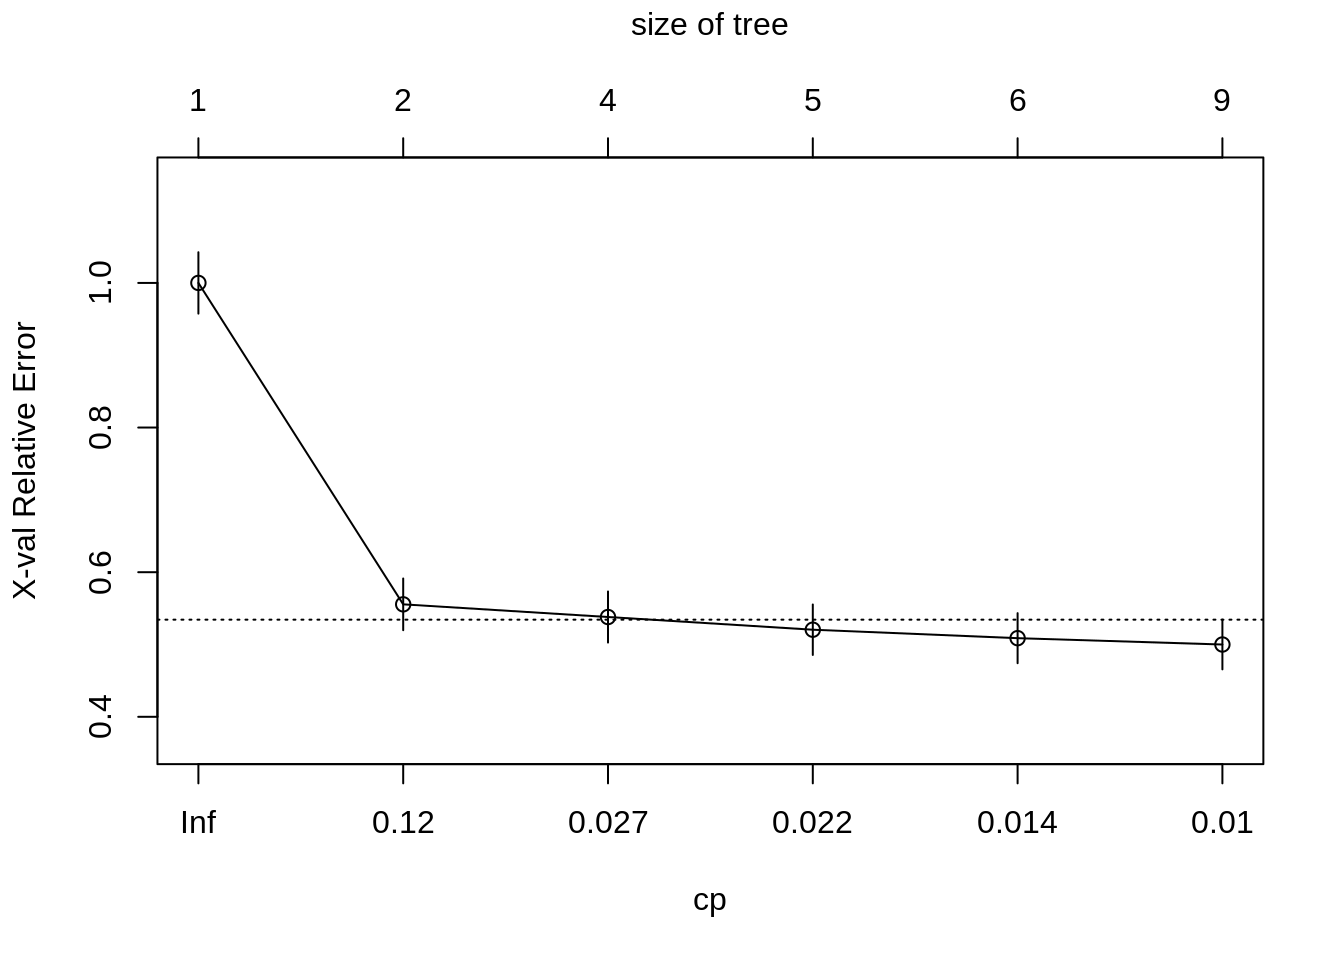
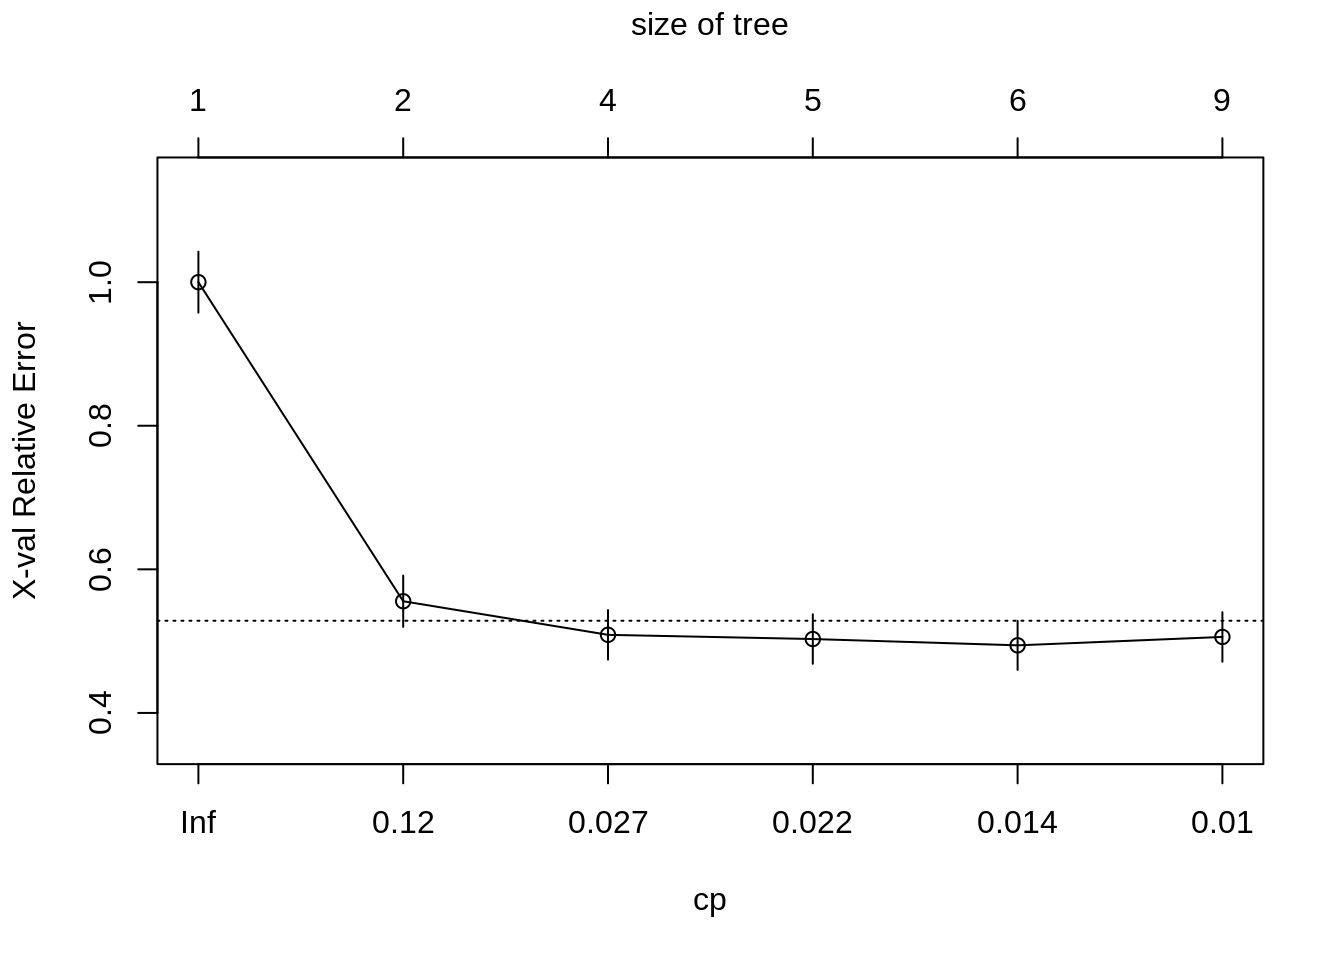
Deploy lebebr01/stat_thinking to github.com/lebebr01/stat_thinking.git:master

diff --git a/docs/classification.html b/docs/classification.html
@@ -324,10 +324,10 @@ titanic &lt;-<span class="st"> </span><span class="kw">bind_rows</span>(titanic_
 ##         CP nsplit rel error  xerror     xstd
 ## 1 0.444444      0   1.00000 1.00000 0.042446
 ## 2 0.030702      1   0.55556 0.55556 0.035750
-## 3 0.023392      3   0.49415 0.53801 0.035331
-## 4 0.020468      4   0.47076 0.52047 0.034897
-## 5 0.010234      5   0.45029 0.50877 0.034599
-## 6 0.010000      8   0.41813 0.50000 0.034372</code></pre>
+## 3 0.023392      3   0.49415 0.50877 0.034599
+## 4 0.020468      4   0.47076 0.50292 0.034448
+## 5 0.010234      5   0.45029 0.49415 0.034217
+## 6 0.010000      8   0.41813 0.50585 0.034524</code></pre>
 <div class="sourceCode"><pre class="sourceCode r"><code class="sourceCode r"><span class="kw">plotcp</span>(class_tree)</code></pre></div>
 <p><img src="05-classification_files/figure-html/unnamed-chunk-6-1.png" width="672" /></p>
 <div class="sourceCode"><pre class="sourceCode r"><code class="sourceCode r">prune_class_tree &lt;-<span class="st"> </span><span class="kw">prune</span>(class_tree, <span class="dt">cp =</span> .<span class="dv">02</span>)

diff --git a/docs/05-classification.md b/docs/05-classification.md
@@ -249,10 +249,10 @@ printcp(class_tree)
 ##         CP nsplit rel error  xerror     xstd
 ## 1 0.444444      0   1.00000 1.00000 0.042446
 ## 2 0.030702      1   0.55556 0.55556 0.035750
-## 3 0.023392      3   0.49415 0.53801 0.035331
-## 4 0.020468      4   0.47076 0.52047 0.034897
-## 5 0.010234      5   0.45029 0.50877 0.034599
-## 6 0.010000      8   0.41813 0.50000 0.034372
+## 3 0.023392      3   0.49415 0.50877 0.034599
+## 4 0.020468      4   0.47076 0.50292 0.034448
+## 5 0.010234      5   0.45029 0.49415 0.034217
+## 6 0.010000      8   0.41813 0.50585 0.034524
 ```
 
 ```r
